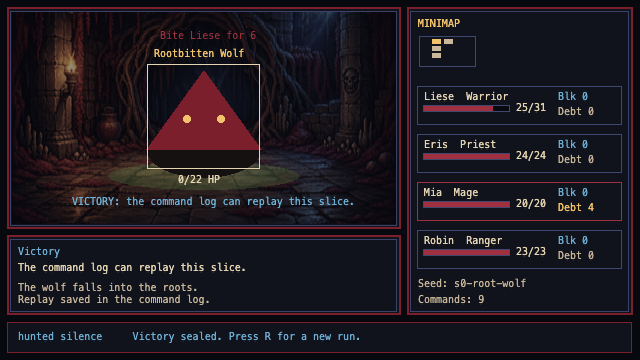
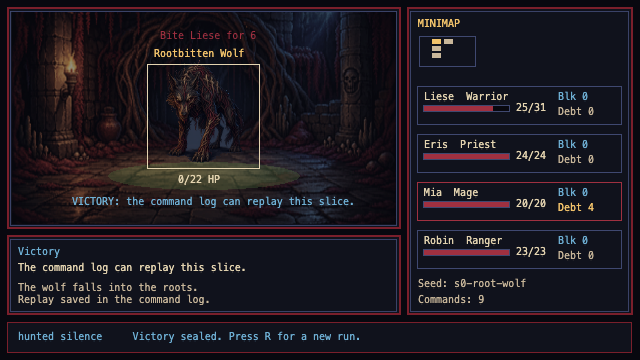
Wire approved wolf sprite into combat (#26)

Changed region(s): [[0.2188, 0.1833, 0.4062, 0.5194]]

diff --git a/src/scenes/S0Scene.ts b/src/scenes/S0Scene.ts
@@ -48,7 +48,11 @@ declare global {
           path: string;
           approvalGate: string;
         }[];
-        enemySprite: null;
+        enemySprite: null | {
+          id: string;
+          path: string;
+          approvalGate: string;
+        };
       };
       feelSettings: FeelSettings;
       lastEvents: readonly GameEvent[];
@@ -76,6 +80,10 @@ const GAMEPLAY_CARD_ART = {
     id: 'card.blood-edge.placeholder',
     key: 'gameplay-card-blood-edge',
   },
+} as const;
+const GAMEPLAY_ENEMY_SPRITE = {
+  id: 'enemy.root-wolf.placeholder',
+  key: 'gameplay-root-wolf-sprite',
 } as const;
 const COMPACT_CARD_NAMES: Record<string, string> = {
   'Ringing Blow': 'Ring Blow',
@@ -105,6 +113,11 @@ type GameplayCardArt = Readonly<{
   path: string;
   approvalGate: string;
 }>;
+type GameplayEnemySprite = Readonly<{
+  id: string;
+  path: string;
+  approvalGate: string;
+}> | null;
 
 export class S0Scene extends Phaser.Scene {
   private state = createSliceState();
@@ -113,6 +126,7 @@ export class S0Scene extends Phaser.Scene {
   private shell!: Phaser.GameObjects.Graphics;
   private explorationBackgroundImage: Phaser.GameObjects.Image | null = null;
   private combatBackgroundImage: Phaser.GameObjects.Image | null = null;
+  private enemySpriteImage: Phaser.GameObjects.Image | null = null;
   private viewport!: Phaser.GameObjects.Graphics;
   private tray!: Phaser.GameObjects.Graphics;
   private sidePanel!: Phaser.GameObjects.Graphics;
@@ -129,6 +143,7 @@ export class S0Scene extends Phaser.Scene {
   private explorationBackground: GameplayExplorationBackground = null;
   private combatBackground: GameplayCombatBackground = null;
   private cardArt: readonly GameplayCardArt[] = [];
+  private enemySprite: GameplayEnemySprite = null;
   private lastEvents: readonly GameEvent[] = [];
 
   constructor() {
@@ -145,6 +160,7 @@ export class S0Scene extends Phaser.Scene {
     this.explorationBackground = gameplayExplorationBackground(manifest);
     this.combatBackground = gameplayCombatBackground(manifest);
     this.cardArt = gameplayCardArt(manifest);
+    this.enemySprite = gameplayEnemySprite(manifest);
     if (this.explorationBackground) {
       this.load.image(GAMEPLAY_EXPLORATION_BACKGROUND.key, this.explorationBackground.path);
     }
@@ -152,7 +168,10 @@ export class S0Scene extends Phaser.Scene {
       this.load.image(GAMEPLAY_COMBAT_BACKGROUND.key, this.combatBackground.path);
     }
     for (const art of this.cardArt) this.load.image(art.key, art.path);
-    if (this.explorationBackground || this.combatBackground || this.cardArt.length > 0) {
+    if (this.enemySprite) {
+      this.load.image(GAMEPLAY_ENEMY_SPRITE.key, this.enemySprite.path);
+    }
+    if (this.explorationBackground || this.combatBackground || this.cardArt.length > 0 || this.enemySprite) {
       this.load.once(Phaser.Loader.Events.COMPLETE, () => this.createScene());
       this.load.start();
       return;
@@ -207,6 +226,12 @@ export class S0Scene extends Phaser.Scene {
       this.combatBackgroundImage.setDisplaySize(VIEWPORT.w - S0_LAYOUT.viewport.innerPad * 2, VIEWPORT.h - S0_LAYOUT.viewport.innerPad * 2);
       this.combatBackgroundImage.setAlpha(0.78);
       this.combatBackgroundImage.setVisible(false);
+    }
+    if (this.enemySprite && this.textures.exists(GAMEPLAY_ENEMY_SPRITE.key)) {
+      this.enemySpriteImage = this.add.image(layout.combat.enemyShadow.x, 111, GAMEPLAY_ENEMY_SPRITE.key);
+      this.enemySpriteImage.setDisplaySize(88, 118);
+      this.enemySpriteImage.setAlpha(0.95);
+      this.enemySpriteImage.setVisible(false);
     }
     this.viewport = this.add.graphics();
     this.tray = this.add.graphics();
@@ -318,6 +343,7 @@ export class S0Scene extends Phaser.Scene {
   private drawViewport() {
     this.explorationBackgroundImage?.setVisible(false);
     this.combatBackgroundImage?.setVisible(false);
+    this.enemySpriteImage?.setVisible(false);
     if (this.state.mode === 'town') {
       this.drawTownView();
       return;
@@ -463,23 +489,29 @@ export class S0Scene extends Phaser.Scene {
 
     const combat = this.assertCombat();
     const enemyTint = hasStatus(combat.enemy.statuses, 'mark') ? colors.gold : colors.oxblood;
-    g.fillStyle(colors.wolfShadow, 1).fillEllipse(
-      combatLayout.enemyShadow.x,
-      combatLayout.enemyShadow.y,
-      combatLayout.enemyShadow.w,
-      combatLayout.enemyShadow.h,
-    );
-    g.fillStyle(enemyTint, 1).fillTriangle(
-      combatLayout.enemyBody.x1,
-      combatLayout.enemyBody.y1,
-      combatLayout.enemyBody.x2,
-      combatLayout.enemyBody.y2,
-      combatLayout.enemyBody.x3,
-      combatLayout.enemyBody.y3,
-    );
-    g.fillStyle(colors.gold, 1)
-      .fillCircle(combatLayout.enemyEyeLeft.x, combatLayout.enemyEyeLeft.y, combatLayout.enemyEyeLeft.radius)
-      .fillCircle(combatLayout.enemyEyeRight.x, combatLayout.enemyEyeRight.y, combatLayout.enemyEyeRight.radius);
+    if (this.enemySpriteImage) {
+      this.enemySpriteImage.setVisible(true);
+      if (hasStatus(combat.enemy.statuses, 'mark')) this.enemySpriteImage.setTint(colors.gold);
+      else this.enemySpriteImage.clearTint();
+    } else {
+      g.fillStyle(colors.wolfShadow, 1).fillEllipse(
+        combatLayout.enemyShadow.x,
+        combatLayout.enemyShadow.y,
+        combatLayout.enemyShadow.w,
+        combatLayout.enemyShadow.h,
+      );
+      g.fillStyle(enemyTint, 1).fillTriangle(
+        combatLayout.enemyBody.x1,
+        combatLayout.enemyBody.y1,
+        combatLayout.enemyBody.x2,
+        combatLayout.enemyBody.y2,
+        combatLayout.enemyBody.x3,
+        combatLayout.enemyBody.y3,
+      );
+      g.fillStyle(colors.gold, 1)
+        .fillCircle(combatLayout.enemyEyeLeft.x, combatLayout.enemyEyeLeft.y, combatLayout.enemyEyeLeft.radius)
+        .fillCircle(combatLayout.enemyEyeRight.x, combatLayout.enemyEyeRight.y, combatLayout.enemyEyeRight.radius);
+    }
     g.lineStyle(1, colors.bone, 1).strokeRect(
       combatLayout.enemyHitBox.x,
       combatLayout.enemyHitBox.y,
@@ -920,7 +952,7 @@ export class S0Scene extends Phaser.Scene {
         explorationBackground: this.explorationBackground,
         combatBackground: this.combatBackground,
         cardArt: this.cardArt.map(({ cardId, assetId, path, approvalGate }) => ({ cardId, assetId, path, approvalGate })),
-        enemySprite: null,
+        enemySprite: this.enemySprite,
       },
       feelSettings: this.feelSettings,
       lastEvents: this.lastEvents,
@@ -1053,6 +1085,20 @@ function gameplayCardArt(manifest: unknown): readonly GameplayCardArt[] {
       return [];
     }
   });
+}
+
+function gameplayEnemySprite(manifest: unknown): GameplayEnemySprite {
+  try {
+    const asset = assetFromManifest(manifest, GAMEPLAY_ENEMY_SPRITE.id);
+    if (asset.kind !== 'sprite' || asset.approvalGate !== 'approved-for-gameplay') return null;
+    return {
+      id: asset.id,
+      path: asset.previewPath,
+      approvalGate: asset.approvalGate,
+    };
+  } catch {
+    return null;
+  }
 }
 
 function targetCode(card: CardDef): string {

diff --git a/tests/browser/s0.spec.ts b/tests/browser/s0.spec.ts
@@ -39,7 +39,11 @@ declare global {
           path: string;
           approvalGate: string;
         }[];
-        enemySprite: null;
+        enemySprite: null | {
+          id: string;
+          path: string;
+          approvalGate: string;
+        };
       };
       feelSettings: FeelSettings;
       lastEvents: readonly GameEvent[];
@@ -82,7 +86,11 @@ test('S0 browser smoke: move, hold, win, and capture canvas receipt', async ({ p
       path: '/assets/drafts/underroot/batch-01/blood-edge-preview-01.png',
       approvalGate: 'approved-for-gameplay',
     }],
-    enemySprite: null,
+    enemySprite: {
+      id: 'enemy.root-wolf.placeholder',
+      path: '/assets/drafts/underroot/batch-02/rootbitten-wolf-preview-01.png',
+      approvalGate: 'approved-for-gameplay',
+    },
   });
   const baselineObjects = combatStarted.objectCounts.total;
   expect(combatStarted.objectCounts.fx).toBe(0);
@@ -732,7 +740,11 @@ type DebugState = {
       path: string;
       approvalGate: string;
     }[];
-    enemySprite: null;
+    enemySprite: null | {
+      id: string;
+      path: string;
+      approvalGate: string;
+    };
   };
   objectCounts: {
     total: number;

diff --git a/.logs/m3-gameplay-root-wolf-sprite.md b/.logs/m3-gameplay-root-wolf-sprite.md
@@ -1,0 +1,25 @@
+# M3 Gameplay Root Wolf Sprite
+
+Date: 2026-04-26
+
+## Scope
+
+- Wired the approved `enemy.root-wolf.placeholder` sprite into `S0Scene` combat gameplay.
+- Kept the old geometric wolf as the fallback when the manifest asset is missing or not approved.
+- Did not add enemies, new art, new combat rules, or broader scene architecture.
+
+## Gate
+
+The gameplay scene only loads the wolf sprite when the public manifest resolves it as:
+
+- `kind: "sprite"`
+- `approvalGate: "approved-for-gameplay"`
+
+## Receipt
+
+- Updated `.logs/s0-signature-slice.png` with the approved wolf visible in the S0 combat room.
+- Focused browser smoke confirms `__HOLLOWMARK_DEBUG__.gameplayAssets.enemySprite` points at `/assets/drafts/underroot/batch-02/rootbitten-wolf-preview-01.png`.
+
+## Visual Notes
+
+The fallback wolf shadow/body renderer is skipped when the approved sprite is active so the authored silhouette stays readable. The enemy hitbox outline remains visible as the current click-target affordance.
